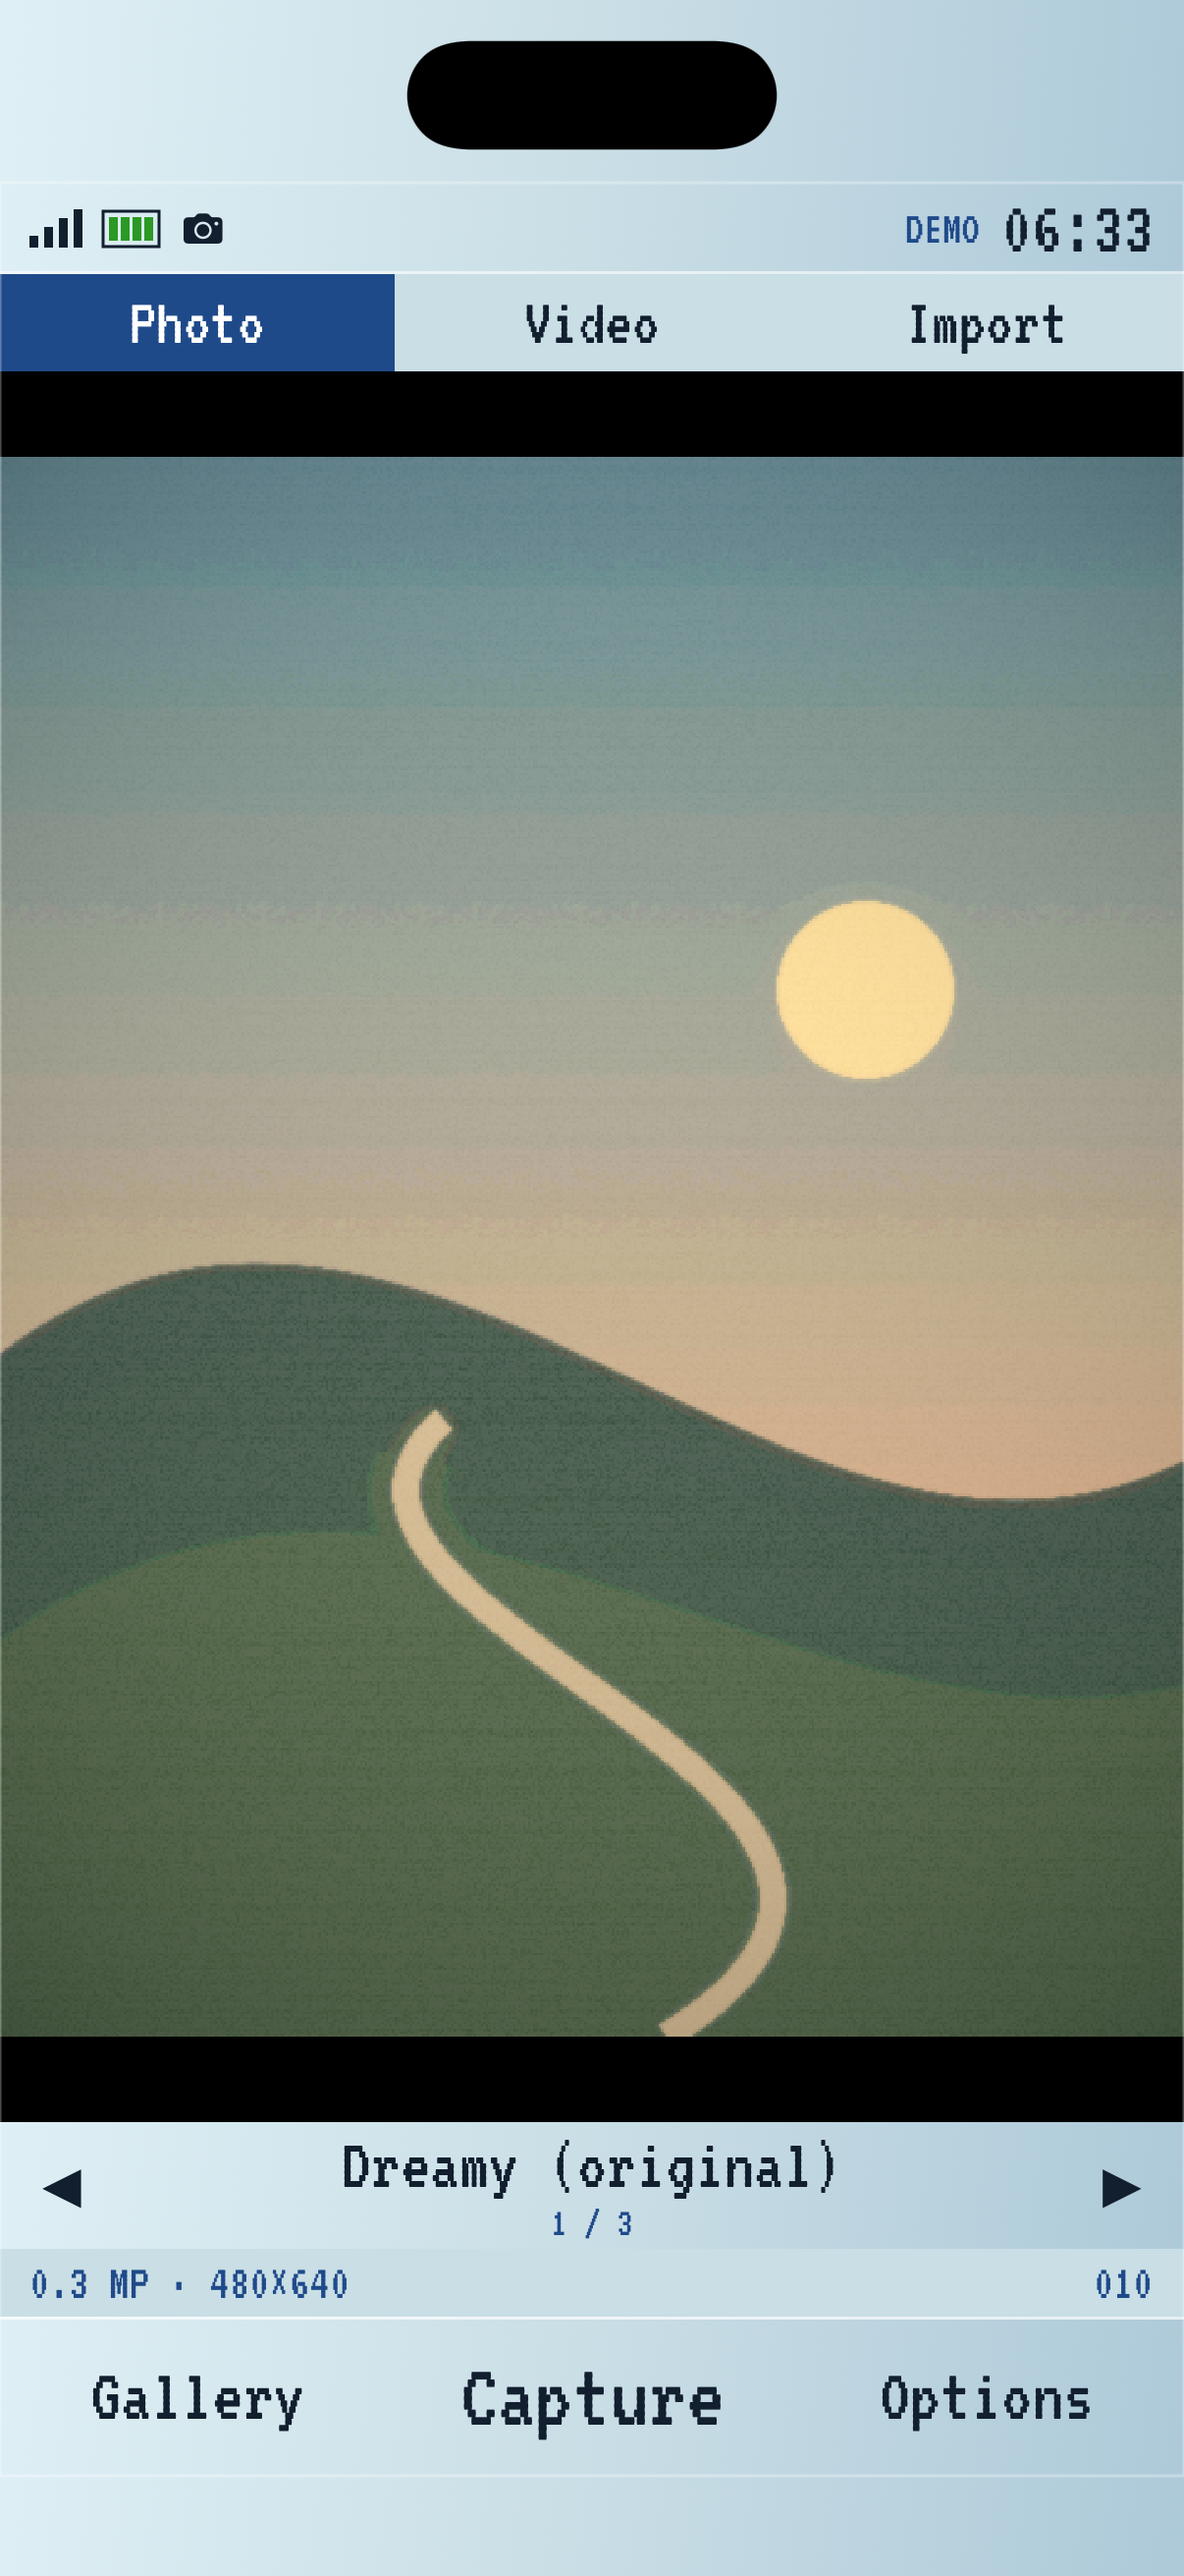
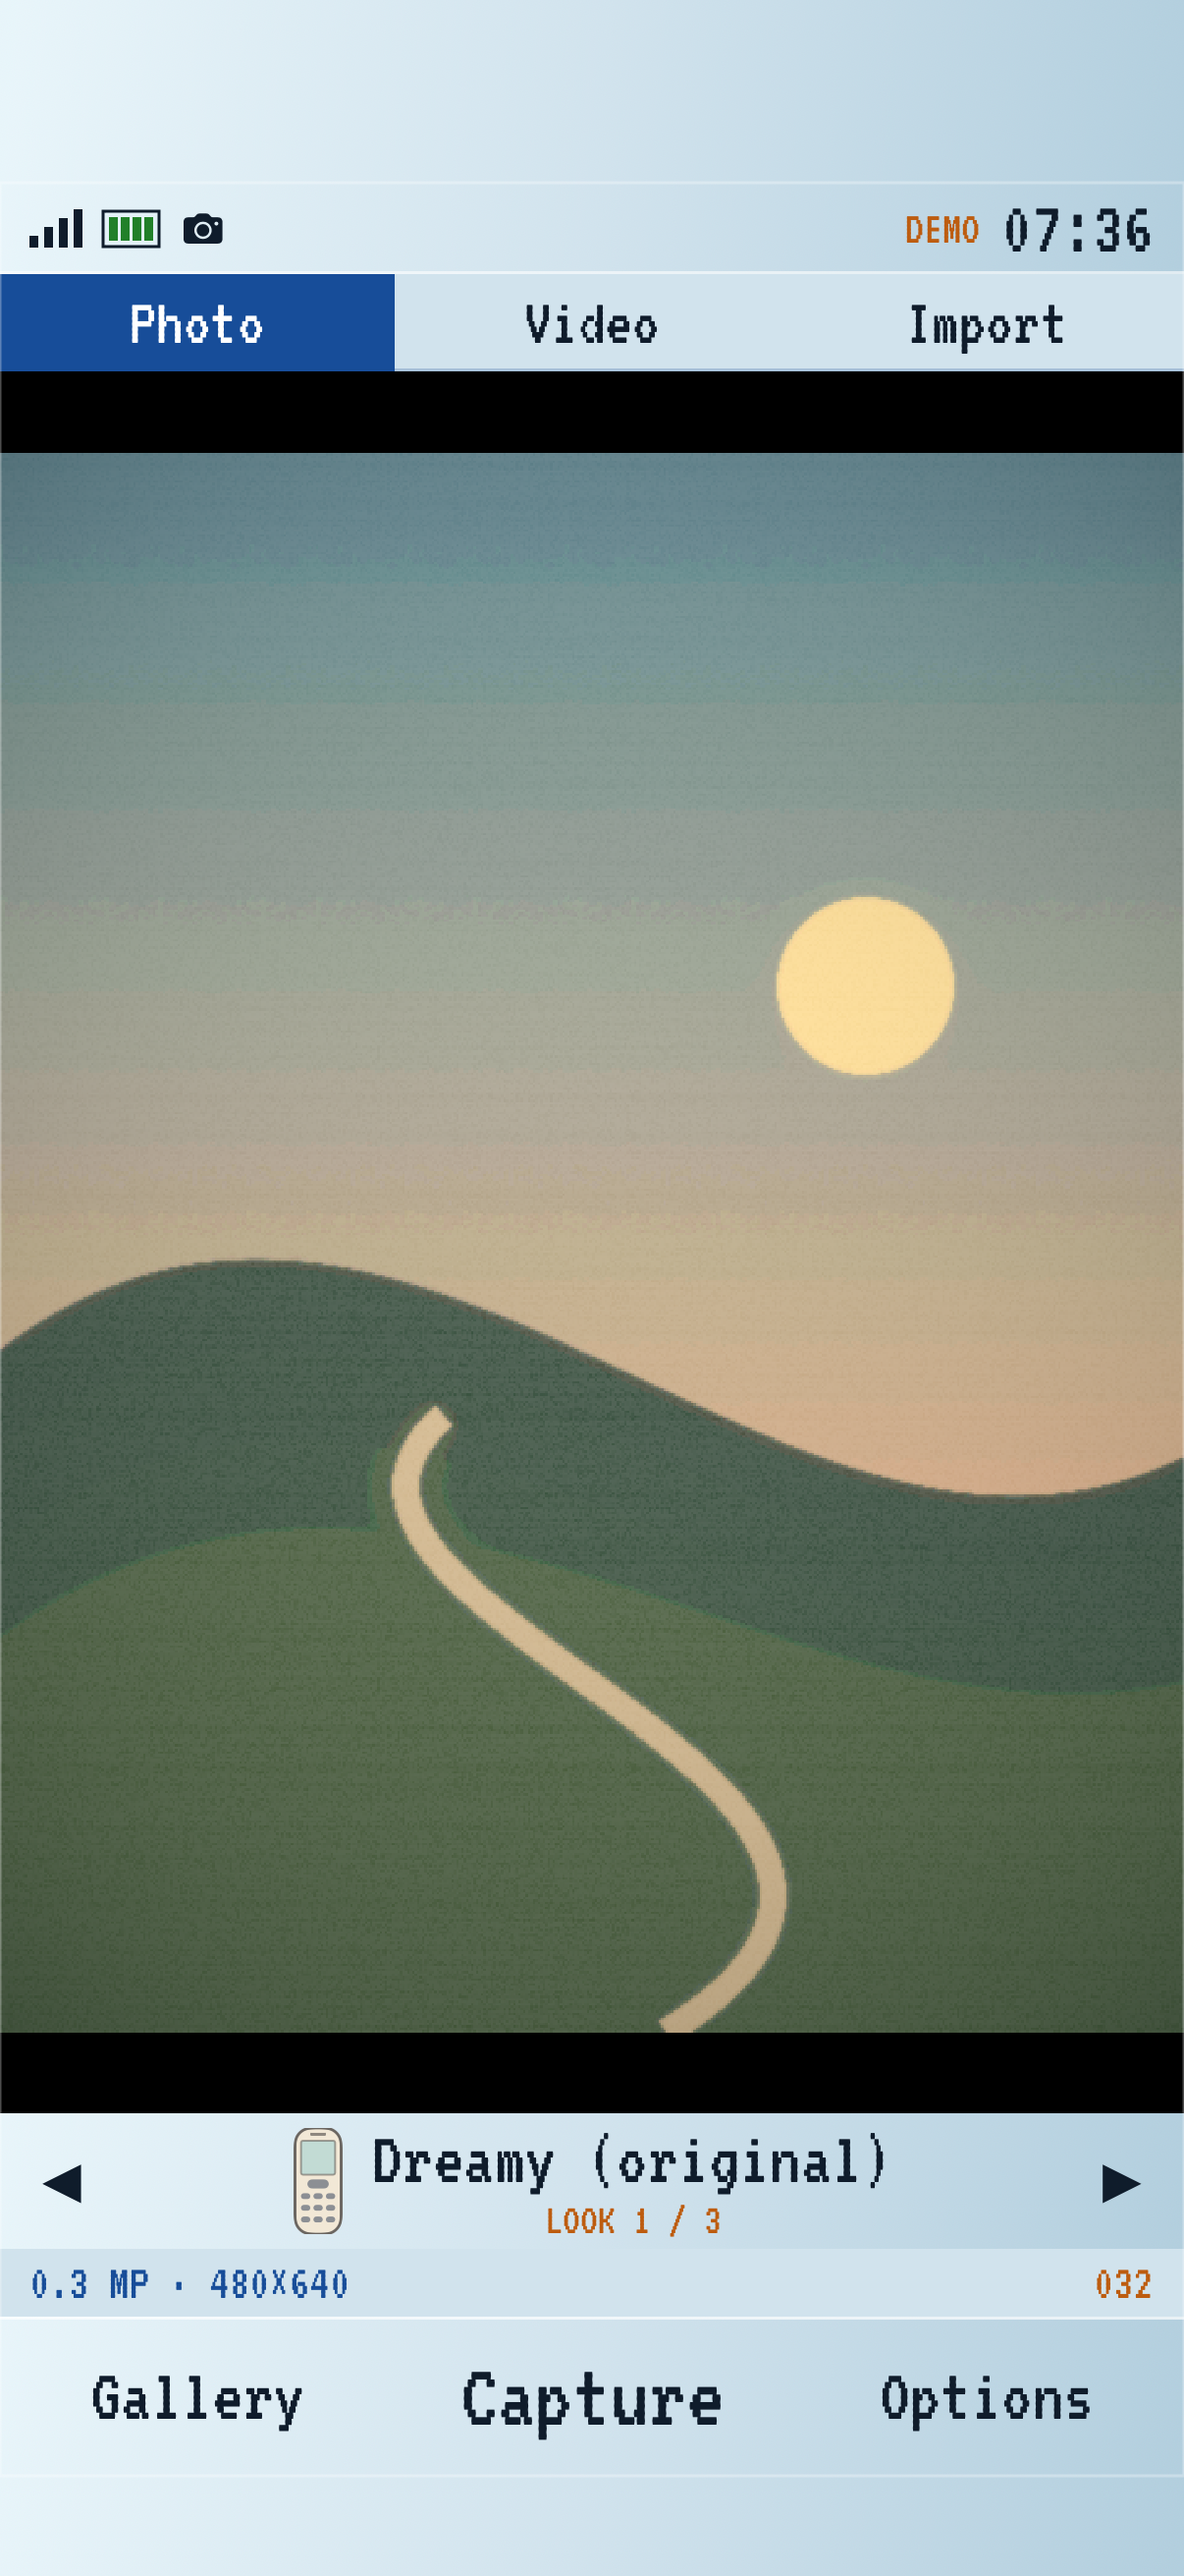
Recolour the Series 40 interface
Keeps the pale blue design and gives it a colour and text pass.

- Palette: deeper ink, lighter paper for contrast, a richer highlight blue,
  and a new warm accent plus a shared green, so the interface is no longer a
  single blue.
- The accent carries readouts and state: gallery count, look index, menu row
  numbers, effect percentage, gallery type marker, the viewer's look name, and
  the DEMO and REC tags.
- Text: the look index reads "LOOK 1 / 3"; subtitles and dates drop back to
  the highlight blue so titles lead; look subtitles are held to one line so
  rows keep an even height.
- The first Options row no longer gets an arbitrary lighter plate; rows are
  uniform with a hairline separator, and the mode bar gained a hairline.

The gallery count stays digits only because the UI test parses it as an
integer; look names, soft-key titles, menu row titles and the saved-memory
toasts are unchanged for the same reason.

Tests: 11 unit/integration and 2 UI tests pass; unsigned arm64 Release device
build succeeds; screens inspected at rest. preview-phone.png regenerated.

diff --git a/Pocket03/CameraView.swift b/Pocket03/CameraView.swift
@@ -31,9 +31,12 @@ struct CameraView: View {
     @State private var flashing = false
     @State private var exporting = false
 
-    private let ink = Color(red: 0.07, green: 0.12, blue: 0.18)
-    private let paper = Color(red: 0.79, green: 0.87, blue: 0.90)
-    private let highlight = Color(red: 0.12, green: 0.29, blue: 0.54)
+    private let ink = Color(red: 0.06, green: 0.11, blue: 0.17)
+    private let paper = Color(red: 0.82, green: 0.89, blue: 0.93)
+    private let highlight = Color(red: 0.09, green: 0.30, blue: 0.60)
+    // A warm second colour: counts, indices and state read differently from labels.
+    private let accent = Color(red: 0.74, green: 0.36, blue: 0.06)
+    private let live = Color(red: 0.13, green: 0.50, blue: 0.16)
     private var film: Film { Film(rawValue: selectedLook).flatMap { Film.cameraLooks.contains($0) ? $0 : nil } ?? .dreamy }
     private var busy: Bool { camera.isRecording || camera.isFinishing || importing || pendingMovie != nil }
     private var centerTitle: String {
@@ -106,19 +109,19 @@ struct CameraView: View {
     }
 
     private func pixel(_ size: CGFloat) -> Font { .custom("VT323-Regular", size: size) }
-    private var chrome: LinearGradient { LinearGradient(colors: [Color(red: 0.87, green: 0.94, blue: 0.96), paper, Color(red: 0.68, green: 0.79, blue: 0.85)], startPoint: .topLeading, endPoint: .bottomTrailing) }
+    private var chrome: LinearGradient { LinearGradient(colors: [Color(red: 0.91, green: 0.96, blue: 0.98), paper, Color(red: 0.70, green: 0.81, blue: 0.87)], startPoint: .topLeading, endPoint: .bottomTrailing) }
 
     private var statusBar: some View {
         HStack(spacing: 7) {
             HStack(alignment: .bottom, spacing: 2) {
                 ForEach(0..<4) { i in Rectangle().fill(ink).frame(width: 3, height: CGFloat(4 + i * 3)) }
             }.accessibilityHidden(true)
-            HStack(spacing: 1) { ForEach(0..<4) { _ in Rectangle().fill(Color(red: 0.17, green: 0.6, blue: 0.14)).frame(width: 3, height: 8) } }
+            HStack(spacing: 1) { ForEach(0..<4) { _ in Rectangle().fill(live).frame(width: 3, height: 8) } }
                 .padding(2).overlay(Rectangle().stroke(ink, lineWidth: 1)).accessibilityHidden(true)
             Image(systemName: camera.torchOn ? "bolt.fill" : "camera.fill").font(.system(size: 11)).accessibilityHidden(true)
-            if camera.isRecording { Text("REC").foregroundStyle(.red) }
+            if camera.isRecording { Text("REC").foregroundStyle(accent) }
             Spacer()
-            if camera.isDemo { Text("DEMO").font(pixel(16)).foregroundStyle(highlight) }
+            if camera.isDemo { Text("DEMO").font(pixel(16)).foregroundStyle(accent) }
             Text(Date(), format: .dateTime.hour(.twoDigits(amPM: .omitted)).minute(.twoDigits)).font(pixel(26))
         }
         .font(pixel(19)).foregroundStyle(ink).padding(.horizontal, 10).frame(height: 31).background(chrome)
@@ -135,6 +138,7 @@ struct CameraView: View {
                     .accessibilityAddTraits(mode == item ? .isSelected : [])
             }
         }.background(paper)
+            .overlay(alignment: .bottom) { Rectangle().fill(highlight.opacity(0.22)).frame(height: 1) }
     }
     private var lookSelector: some View {
         HStack(spacing: 0) {
@@ -143,8 +147,8 @@ struct CameraView: View {
                 HStack(spacing: 9) {
                     PhoneGlyph(film: film).frame(height: 36)
                     VStack(spacing: 0) {
-                        Text(film.rawValue).font(pixel(25)).lineLimit(1).minimumScaleFactor(0.7)
-                        Text("\((Film.cameraLooks.firstIndex(of: film) ?? 0) + 1) / 3").font(pixel(14)).foregroundStyle(highlight)
+                        Text(film.rawValue).font(pixel(26)).lineLimit(1).minimumScaleFactor(0.7)
+                        Text("LOOK \((Film.cameraLooks.firstIndex(of: film) ?? 0) + 1) / 3").font(pixel(15)).foregroundStyle(accent)
                     }
                 }.frame(maxWidth: .infinity, minHeight: 46)
             }.accessibilityIdentifier("look-selector")
@@ -155,7 +159,7 @@ struct CameraView: View {
         HStack {
             Text(mode == .video ? "480×640 · silent video" : mode == .imported ? "Photo & video import" : "0.3 MP · 480×640")
             Spacer()
-            Text(String(format: "%03d", library.memories.count)).accessibilityIdentifier("gallery-count")
+            Text(String(format: "%03d", library.memories.count)).foregroundStyle(accent).accessibilityIdentifier("gallery-count")
         }.font(pixel(17)).foregroundStyle(highlight).padding(.horizontal, 10).frame(height: 23).background(paper)
     }
     private var viewfinder: some View {
@@ -225,9 +229,12 @@ struct CameraView: View {
                 ForEach(Array(Film.cameraLooks.enumerated()), id: \.element.id) { index, look in
                     Button { selectedLook = look.rawValue; page = .camera } label: {
                         HStack(alignment: .center, spacing: 11) {
-                            Text("\(index + 1)").frame(width: 20)
+                            Text("\(index + 1)").foregroundStyle(film == look ? .white : accent).frame(width: 20)
                             PhoneGlyph(film: look).frame(height: 58)
-                            VStack(alignment: .leading, spacing: 6) { Text(look.rawValue).font(pixel(27)); Text(look.subtitle).font(pixel(18)) }
+                            VStack(alignment: .leading, spacing: 6) {
+                                Text(look.rawValue).font(pixel(27))
+                                Text(look.subtitle).font(pixel(18)).lineLimit(1).minimumScaleFactor(0.75).foregroundStyle(film == look ? .white.opacity(0.85) : highlight)
+                            }
                             Spacer(minLength: 0)
                             if film == look { Text("✓") }
                         }.padding(14).frame(maxWidth: .infinity, alignment: .leading)
@@ -243,7 +250,10 @@ struct CameraView: View {
                 menuRow("2", camera.torchOn ? "Torch: On" : "Torch: Off", icon: "bolt") { camera.toggleTorch() }.disabled(camera.isDemo)
                 menuRow("3", "Zoom: \(Int(camera.zoom))×", icon: "plus.magnifyingglass") { camera.setZoom(camera.zoom >= 3 ? 1 : camera.zoom + 1) }.disabled(camera.isDemo)
                 VStack(alignment: .leading, spacing: 12) {
-                    Text("Effect strength: \(Int(strength * 100))%").font(pixel(25))
+                    HStack(spacing: 0) {
+                        Text("Effect strength: ").font(pixel(25))
+                        Text("\(Int(strength * 100))%").font(pixel(25)).foregroundStyle(accent)
+                    }
                     Slider(value: $strength, in: 0...1).tint(highlight).accessibilityLabel("Effect strength")
                 }.padding(17)
                 Spacer()
@@ -259,8 +269,11 @@ struct CameraView: View {
                             Button { openMemory(memory) } label: {
                                 VStack(alignment: .leading, spacing: 4) {
                                     if let image = library.thumbnail(memory) { Image(uiImage: image).resizable().interpolation(.none).aspectRatio(3 / 4, contentMode: .fit).border(.white, width: 2) }
-                                    Text(memory.isVideo ? "▶ Video" : "▣ Image").font(pixel(22))
-                                    Text(memory.date, format: .dateTime.day().month()).font(pixel(18))
+                                    HStack(spacing: 5) {
+                                        Text(memory.isVideo ? "▶" : "▣").font(pixel(22)).foregroundStyle(accent)
+                                        Text(memory.isVideo ? "Video" : "Image").font(pixel(22))
+                                    }
+                                    Text(memory.date, format: .dateTime.day().month()).font(pixel(18)).foregroundStyle(highlight)
                                 }.foregroundStyle(ink)
                             }.buttonStyle(.plain).accessibilityIdentifier("memory-\(memory.id)")
                         }
@@ -272,8 +285,8 @@ struct CameraView: View {
                 VStack(spacing: 12) {
                     if memory.isVideo { VideoPlayer(player: player).aspectRatio(3 / 4, contentMode: .fit) }
                     else if let image = library.thumbnail(memory) { Image(uiImage: image).resizable().interpolation(.none).aspectRatio(3 / 4, contentMode: .fit) }
-                    Text(memory.film.rawValue).font(pixel(25))
-                    Text(memory.isVideo ? "480×640 · silent video" : "480×640 · JPEG").font(pixel(19))
+                    Text(memory.film.rawValue).font(pixel(25)).foregroundStyle(accent)
+                    Text(memory.isVideo ? "480×640 · silent video" : "480×640 · JPEG").font(pixel(19)).foregroundStyle(highlight)
                     ShareLink(item: library.url(memory)) { Text("Send / Share").font(pixel(26)).padding(10) }
                     Spacer(minLength: 0)
                 }.padding(12).foregroundStyle(ink)
@@ -284,13 +297,13 @@ struct CameraView: View {
     private func menuRow(_ number: String, _ title: String, icon: String, action: @escaping () -> Void) -> some View {
         Button(action: action) {
             HStack(spacing: 12) {
-                Text(number).font(pixel(25)).foregroundStyle(highlight).frame(width: 20)
+                Text(number).font(pixel(25)).foregroundStyle(accent).frame(width: 20)
                 Image(systemName: icon).font(.system(size: 17)).frame(width: 23)
                 Text(title).font(pixel(27)); Spacer(minLength: 0)
                 Text("›").font(pixel(27))
             }.foregroundStyle(ink).padding(.horizontal, 12).frame(minHeight: 53)
-                .background(page == .options && number == "1" ? Color.white.opacity(0.7) : Color.white.opacity(0.18))
-                .overlay(alignment: .bottom) { Rectangle().fill(highlight.opacity(0.15)).frame(height: 1) }
+                .background(Color.white.opacity(0.3))
+                .overlay(alignment: .bottom) { Rectangle().fill(highlight.opacity(0.18)).frame(height: 1) }
         }.buttonStyle(.plain)
     }
     private var softKeys: some View {

diff --git a/docs/validation.md b/docs/validation.md
@@ -94,3 +94,23 @@ also carries EXIF orientation 6 and must be transposed before any cropping.
 
 Verified after the change: full suite green (11 unit/integration, 2 UI), and the selector and
 Processing list were inspected at rest in the simulator.
+
+## Interface: reverted, then recoloured (24 October 2026)
+
+The amber dot-matrix rebuild was reverted at the user's request -- the Series 40 interface was
+preferred -- and the pale blue design was then given a colour and text pass rather than replaced:
+
+- Palette: deeper ink, lighter paper for contrast, a richer highlight blue, and a new warm accent
+  plus a shared green, so the interface is no longer a single blue.
+- The accent carries readouts and state: the gallery count, the look index, menu row numbers, the
+  effect percentage, the gallery type marker, the viewer's look name, and the DEMO and REC tags.
+- Text: the look index now reads "LOOK 1 / 3"; subtitles and dates drop back to the highlight blue
+  so titles lead; look subtitles are held to one line so the rows keep an even height.
+- The first Options row no longer gets an arbitrary lighter plate; rows are uniform with a
+  hairline separator, and the mode bar gained a hairline so it reads as a band.
+
+The gallery count label is still digits only, because the UI test parses it as an integer. Look
+names, soft-key titles, menu row titles and the saved-memory toasts are unchanged for the same
+reason. Verified: full suite green (11 unit/integration, 2 UI), unsigned arm64 Release device
+build succeeds, and the camera, options, processing, settings and gallery screens were inspected
+at rest. `preview-phone.png` regenerated.

diff --git a/README.md b/README.md
@@ -6,7 +6,7 @@ A native iPhone camera for small, imperfect memories. SwiftUI + AVFoundation + C
 
 ## Features
 
-- A Series 40 style interface with pixel type, pale blue status/menu bars and **Gallery / Capture / Options** soft keys.
+- A Series 40 style interface with pixel type, pale blue status/menu bars, a warm accent for counts and state, and **Gallery / Capture / Options** soft keys.
 - Three camera looks: **Dreamy (original)**, **Nokia 2630 (2007)** and **Siemens CX70 (2004)**, each shown with a handset
   picture in the look selector and the Processing menu. These are new approximations, not the original app's protected formulas.
 - Visible **Photo / Video / Import** workflow tabs. All three looks work with photos, recordings, imported photos and imported clips.
